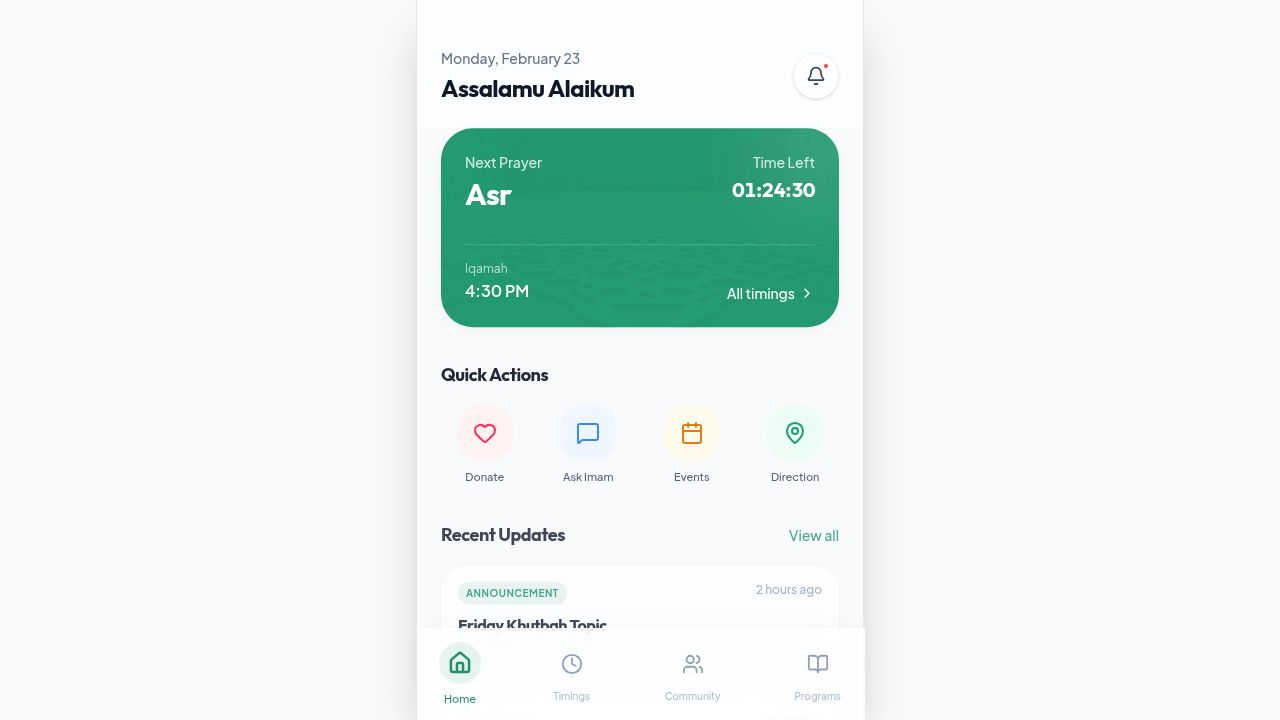
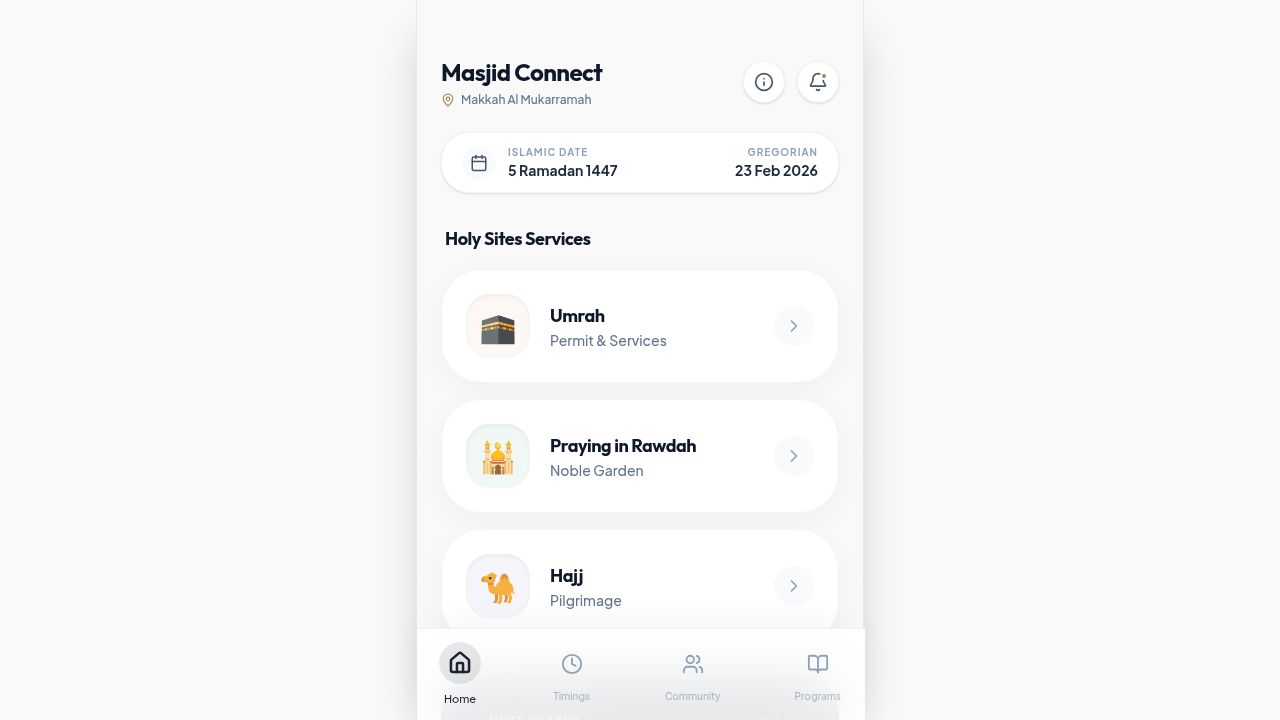
Update color palette and add service widgets inspired by Nusuk app
Modify CSS variables in `index.css` to adopt a Nusuk-inspired color scheme and introduce new service widgets to `Home.tsx`.

Replit-Commit-Author: Agent
Replit-Commit-Session-Id: 55d6c606-1854-4e0f-b1c6-3089f70cd9a5
Replit-Commit-Checkpoint-Type: full_checkpoint
Replit-Commit-Event-Id: 4c9d0ab0-be5f-4ed8-96c5-e7ea330431b8
Replit-Commit-Screenshot-Url: https://storage.googleapis.com/screenshot-production-us-central1/599d07c3-ad3f-4813-bbfb-17ba031df147/55d6c606-1854-4e0f-b1c6-3089f70cd9a5/vXrgej5
Replit-Helium-Checkpoint-Created: true

diff --git a/client/src/pages/Home.tsx b/client/src/pages/Home.tsx
@@ -1,136 +1,141 @@
 import { motion } from "framer-motion";
 import { format } from "date-fns";
-import { Bell, ChevronRight, Heart, MapPin, MessageSquare, Calendar } from "lucide-react";
+import { Bell, ChevronRight, Calendar, Info, MapPin, Heart } from "lucide-react";
 import patternBg from "@/assets/images/pattern-bg.png";
 import { Link } from "wouter";
 
 export default function Home() {
   const today = new Date();
   
+  const mainServices = [
+    { title: "Umrah", icon: "🕋", subtitle: "Permit & Services", color: "bg-[#FDF8F3] text-[#8B7355]" },
+    { title: "Praying in Rawdah", icon: "🕌", subtitle: "Noble Garden", color: "bg-[#F0F7F4] text-[#2D5A47]" },
+    { title: "Hajj", icon: "🐪", subtitle: "Pilgrimage", color: "bg-[#F5F5FB] text-[#4A4E69]" },
+  ];
+
   return (
-    <div className="min-h-full pb-8">
-      {/* Header */}
-      <header className="px-6 pt-12 pb-6 flex justify-between items-center bg-white/50 backdrop-blur-md sticky top-0 z-40">
-        <motion.div 
-          initial={{ opacity: 0, y: -10 }}
-          animate={{ opacity: 1, y: 0 }}
-          transition={{ duration: 0.5 }}
-        >
-          <p className="text-sm font-medium text-slate-500 mb-1">{format(today, "EEEE, MMMM d")}</p>
-          <h1 className="text-2xl font-bold text-slate-900">Assalamu Alaikum</h1>
-        </motion.div>
+    <div className="min-h-full pb-12 bg-[#F9F9F9]">
+      {/* Premium Header */}
+      <header className="px-6 pt-14 pb-6 flex justify-between items-center">
+        <div>
+          <h1 className="text-2xl font-bold text-slate-900 font-heading">Masjid Connect</h1>
+          <div className="flex items-center gap-1.5 mt-1">
+            <MapPin size={14} className="text-secondary" />
+            <span className="text-xs font-medium text-slate-500">Makkah Al Mukarramah</span>
+          </div>
+        </div>
         
-        <motion.button 
-          initial={{ opacity: 0, scale: 0.9 }}
-          animate={{ opacity: 1, scale: 1 }}
-          transition={{ duration: 0.5, delay: 0.1 }}
-          className="relative p-3 bg-white rounded-full shadow-sm border border-slate-100"
-          data-testid="btn-notifications"
-        >
-          <Bell size={20} className="text-slate-700" />
-          <span className="absolute top-2 right-2 w-2 h-2 bg-destructive rounded-full border-2 border-white"></span>
-        </motion.button>
+        <div className="flex gap-3">
+          <button className="p-2.5 bg-white rounded-2xl shadow-sm border border-slate-100" data-testid="btn-info">
+            <Info size={20} className="text-slate-600" />
+          </button>
+          <button className="relative p-2.5 bg-white rounded-2xl shadow-sm border border-slate-100" data-testid="btn-notifications">
+            <Bell size={20} className="text-slate-600" />
+            <span className="absolute top-2.5 right-2.5 w-2 h-2 bg-secondary rounded-full border-2 border-white"></span>
+          </button>
+        </div>
       </header>
 
       <div className="px-6 space-y-8">
-        {/* Next Prayer Card */}
+        {/* Date Section */}
+        <div className="flex items-center justify-between bg-white px-5 py-3 rounded-2xl shadow-sm border border-slate-100">
+          <div className="flex items-center gap-3">
+            <div className="p-2 bg-slate-50 rounded-xl">
+              <Calendar size={18} className="text-slate-600" />
+            </div>
+            <div>
+              <p className="text-[10px] font-bold text-slate-400 uppercase tracking-widest">Islamic Date</p>
+              <p className="text-sm font-bold text-slate-800">5 Ramadan 1447</p>
+            </div>
+          </div>
+          <div className="text-right">
+             <p className="text-[10px] font-bold text-slate-400 uppercase tracking-widest">Gregorian</p>
+             <p className="text-sm font-bold text-slate-800">{format(today, "dd MMM yyyy")}</p>
+          </div>
+        </div>
+
+        {/* Nusuk-style Featured Services */}
+        <section>
+          <h3 className="text-lg font-bold text-slate-900 mb-4 px-1">Holy Sites Services</h3>
+          <div className="grid grid-cols-1 gap-4">
+            {mainServices.map((service, i) => (
+              <motion.button 
+                key={service.title}
+                initial={{ opacity: 0, y: 20 }}
+                animate={{ opacity: 1, y: 0 }}
+                transition={{ delay: i * 0.1 }}
+                className="nusuk-card p-6 flex items-center justify-between group"
+                data-testid={`service-${service.title.toLowerCase()}`}
+              >
+                <div className="flex items-center gap-5">
+                  <div className={`w-16 h-16 rounded-[1.5rem] flex items-center justify-center text-3xl shadow-inner ${service.color}`}>
+                    {service.icon}
+                  </div>
+                  <div className="text-left">
+                    <h4 className="text-lg font-bold text-slate-900">{service.title}</h4>
+                    <p className="text-sm text-slate-500 font-medium">{service.subtitle}</p>
+                  </div>
+                </div>
+                <div className="w-10 h-10 rounded-full bg-slate-50 flex items-center justify-center group-hover:bg-slate-100 transition-colors">
+                  <ChevronRight size={20} className="text-slate-400" />
+                </div>
+              </motion.button>
+            ))}
+          </div>
+        </section>
+
+        {/* Prayer Time Widget */}
         <motion.div 
-          initial={{ opacity: 0, y: 20 }}
-          animate={{ opacity: 1, y: 0 }}
-          transition={{ duration: 0.6, delay: 0.2 }}
-          className="relative rounded-[2rem] overflow-hidden smooth-shadow bg-primary text-white p-6"
+          initial={{ opacity: 0, scale: 0.95 }}
+          animate={{ opacity: 1, scale: 1 }}
+          className="relative rounded-[2.5rem] overflow-hidden smooth-shadow bg-primary text-white p-8"
         >
           <div 
-            className="absolute inset-0 opacity-10 mix-blend-overlay bg-cover bg-center"
+            className="absolute inset-0 opacity-10 mix-blend-overlay bg-cover bg-center grayscale"
             style={{ backgroundImage: `url(${patternBg})` }}
           />
-          <div className="absolute top-0 right-0 w-32 h-32 bg-white/10 rounded-full blur-2xl -mr-10 -mt-10" />
           
           <div className="relative z-10">
-            <div className="flex justify-between items-start mb-8">
-              <div>
-                <p className="text-primary-foreground/80 text-sm font-medium mb-1">Next Prayer</p>
-                <h2 className="text-3xl font-bold font-heading">Asr</h2>
-              </div>
-              <div className="text-right">
-                <p className="text-primary-foreground/80 text-sm font-medium mb-1">Time Left</p>
-                <p className="text-xl font-bold font-heading tabular-nums">01:24:30</p>
+            <div className="flex justify-between items-center mb-6">
+              <span className="bg-white/10 backdrop-blur-md px-4 py-1.5 rounded-full text-xs font-bold tracking-widest uppercase">Next Prayer</span>
+              <div className="flex items-center gap-2 text-secondary font-bold">
+                <div className="w-2 h-2 rounded-full bg-secondary animate-pulse" />
+                Live
               </div>
             </div>
             
-            <div className="flex justify-between items-end border-t border-white/20 pt-4">
+            <div className="flex justify-between items-end">
               <div>
-                <p className="text-xs text-primary-foreground/70 mb-0.5">Iqamah</p>
-                <p className="font-semibold">4:30 PM</p>
+                <h2 className="text-4xl font-bold font-heading mb-1">Dhuhr</h2>
+                <p className="text-primary-foreground/60 text-sm font-medium">Iqamah in 45 mins</p>
               </div>
-              <Link href="/timings">
-                <a className="flex items-center text-sm font-medium text-white hover:text-white/80 transition-colors" data-testid="link-all-timings">
-                  All timings <ChevronRight size={16} className="ml-1" />
-                </a>
-              </Link>
+              <div className="text-right">
+                <p className="text-3xl font-bold font-heading tabular-nums">12:30</p>
+                <p className="text-xs font-bold text-secondary uppercase tracking-widest mt-1">PM</p>
+              </div>
             </div>
           </div>
         </motion.div>
 
-        {/* Quick Actions */}
-        <motion.section 
-          initial={{ opacity: 0, y: 20 }}
-          animate={{ opacity: 1, y: 0 }}
-          transition={{ duration: 0.6, delay: 0.3 }}
-        >
-          <h3 className="text-lg font-bold text-slate-900 mb-4">Quick Actions</h3>
-          <div className="grid grid-cols-4 gap-4">
-            {[
-              { icon: Heart, label: "Donate", color: "bg-rose-50 text-rose-500" },
-              { icon: MessageSquare, label: "Ask Imam", color: "bg-blue-50 text-blue-500" },
-              { icon: Calendar, label: "Events", color: "bg-amber-50 text-amber-600" },
-              { icon: MapPin, label: "Direction", color: "bg-emerald-50 text-emerald-600" },
-            ].map((action, i) => (
-              <button 
-                key={action.label} 
-                className="flex flex-col items-center gap-2 group"
-                data-testid={`btn-action-${action.label.toLowerCase()}`}
-              >
-                <div className={`w-14 h-14 rounded-2xl flex items-center justify-center transition-transform group-hover:scale-105 ${action.color}`}>
-                  <action.icon size={24} strokeWidth={2} />
+        {/* Quick Access */}
+        <section className="pb-8">
+           <div className="grid grid-cols-2 gap-4">
+              <div className="bg-white p-5 rounded-[2rem] border border-slate-100 shadow-sm relative overflow-hidden group">
+                <div className="w-10 h-10 bg-amber-50 text-amber-600 rounded-xl flex items-center justify-center mb-3">
+                  <Heart size={20} className="group-hover:scale-110 transition-transform" />
                 </div>
-                <span className="text-[11px] font-medium text-slate-600">{action.label}</span>
-              </button>
-            ))}
-          </div>
-        </motion.section>
-
-        {/* Recent Updates */}
-        <motion.section 
-          initial={{ opacity: 0, y: 20 }}
-          animate={{ opacity: 1, y: 0 }}
-          transition={{ duration: 0.6, delay: 0.4 }}
-        >
-          <div className="flex justify-between items-center mb-4">
-            <h3 className="text-lg font-bold text-slate-900">Recent Updates</h3>
-            <Link href="/community">
-              <a className="text-sm font-medium text-primary" data-testid="link-all-updates">View all</a>
-            </Link>
-          </div>
-          
-          <div className="space-y-4">
-            {[
-              { title: "Friday Khutbah Topic", desc: "The Importance of Patience in Hardship by Sh. Ahmed.", time: "2 hours ago", type: "Announcement" },
-              { title: "New Weekend School Term", desc: "Registration is now open for the upcoming term.", time: "Yesterday", type: "Education" },
-            ].map((update, i) => (
-              <div key={i} className="glass-card p-4 rounded-2xl active:scale-[0.98] transition-transform">
-                <div className="flex justify-between items-start mb-2">
-                  <span className="text-[10px] uppercase tracking-wider font-bold text-primary bg-primary/10 px-2 py-1 rounded-md">
-                    {update.type}
-                  </span>
-                  <span className="text-xs text-slate-400 font-medium">{update.time}</span>
-                </div>
-                <h4 className="font-bold text-slate-900 mb-1">{update.title}</h4>
-                <p className="text-sm text-slate-500 leading-relaxed">{update.desc}</p>
+                <h5 className="font-bold text-slate-900">Zakat & Sadaqah</h5>
+                <p className="text-xs text-slate-500 mt-1">Direct donations</p>
               </div>
-            ))}
-          </div>
-        </motion.section>
+              <div className="bg-white p-5 rounded-[2rem] border border-slate-100 shadow-sm relative overflow-hidden group">
+                <div className="w-10 h-10 bg-blue-50 text-blue-600 rounded-xl flex items-center justify-center mb-3">
+                  <Info size={20} className="group-hover:rotate-12 transition-transform" />
+                </div>
+                <h5 className="font-bold text-slate-900">Masjid Guide</h5>
+                <p className="text-xs text-slate-500 mt-1">Facilities & Rules</p>
+              </div>
+           </div>
+        </section>
       </div>
     </div>
   );

diff --git a/client/src/index.css b/client/src/index.css
@@ -35,68 +35,68 @@
 }
 
 :root {
-  /* Elegant light theme inspired by Nusuk */
-  --background: 0 0% 98%;
-  --foreground: 220 20% 15%;
+  /* Nusuk-inspired color palette: Warm, premium, neutral */
+  --background: 30 20% 98%;
+  --foreground: 20 20% 12%;
   
   --card: 0 0% 100%;
-  --card-foreground: 220 20% 15%;
+  --card-foreground: 20 20% 12%;
   
   --popover: 0 0% 100%;
-  --popover-foreground: 220 20% 15%;
+  --popover-foreground: 20 20% 12%;
   
-  /* Rich emerald green as primary */
-  --primary: 158 64% 35%;
+  /* Deep Navy/Slate Primary */
+  --primary: 220 30% 15%;
   --primary-foreground: 0 0% 100%;
   
-  /* Soft gold as secondary */
-  --secondary: 42 63% 58%;
+  /* Muted Gold/Tan Secondary */
+  --secondary: 35 30% 50%;
   --secondary-foreground: 0 0% 100%;
   
-  --muted: 210 20% 96%;
-  --muted-foreground: 215 15% 45%;
+  --muted: 30 20% 95%;
+  --muted-foreground: 20 10% 45%;
   
-  --accent: 158 64% 95%;
-  --accent-foreground: 158 64% 35%;
+  --accent: 35 30% 92%;
+  --accent-foreground: 35 30% 30%;
   
   --destructive: 0 84% 60%;
   --destructive-foreground: 0 0% 100%;
 
-  --border: 214 32% 91%;
-  --input: 214 32% 91%;
-  --ring: 158 64% 35%;
+  --border: 30 10% 90%;
+  --input: 30 10% 90%;
+  --ring: 220 30% 15%;
 
-  --radius: 1rem;
+  --radius: 1.25rem;
 }
 
 .dark {
-  --background: 220 20% 10%;
+  --background: 220 20% 8%;
   --foreground: 210 20% 98%;
   
-  --card: 220 20% 14%;
+  --card: 220 20% 12%;
   --card-foreground: 210 20% 98%;
   
-  --popover: 220 20% 14%;
+  --popover: 220 20% 12%;
   --popover-foreground: 210 20% 98%;
   
-  --primary: 158 64% 45%;
-  --primary-foreground: 0 0% 100%;
+  --primary: 210 20% 98%;
+  --primary-foreground: 220 20% 8%;
   
-  --secondary: 42 63% 58%;
+  --secondary: 35 30% 58%;
   --secondary-foreground: 0 0% 100%;
   
-  --muted: 220 20% 18%;
+  --muted: 220 20% 15%;
   --muted-foreground: 215 15% 70%;
   
-  --accent: 158 64% 20%;
-  --accent-foreground: 158 64% 95%;
+  --accent: 220 20% 20%;
+  --accent-foreground: 210 20% 98%;
   
   --destructive: 0 62% 30%;
   --destructive-foreground: 0 0% 100%;
   
-  --border: 220 20% 20%;
-  --input: 220 20% 20%;
-  --ring: 158 64% 45%;
+  --border: 220 20% 18%;
+  --input: 220 20% 18%;
+  --ring: 210 20% 98%;
 }
 
 @layer base {
@@ -112,18 +112,17 @@
   }
 }
 
-/* Custom Utilities for mobile feel */
 @layer utilities {
   .glass-nav {
-    @apply bg-white/80 backdrop-blur-lg border-t border-white/20 shadow-[0_-8px_30px_-15px_rgba(0,0,0,0.05)];
+    @apply bg-white/90 backdrop-blur-xl border-t border-slate-200/50 shadow-[0_-10px_40px_-15px_rgba(0,0,0,0.08)];
   }
   
-  .glass-card {
-    @apply bg-white/70 backdrop-blur-md border border-white/40 shadow-sm;
+  .nusuk-card {
+    @apply bg-white rounded-[2.5rem] border border-slate-100 shadow-[0_8px_30px_rgb(0,0,0,0.04)] transition-all active:scale-[0.98];
   }
 
   .smooth-shadow {
-    box-shadow: 0 4px 20px -2px rgba(0, 0, 0, 0.05), 0 0 3px rgba(0,0,0,0.02);
+    box-shadow: 0 10px 30px -5px rgba(0, 0, 0, 0.04), 0 0 5px rgba(0,0,0,0.01);
   }
   
   .hide-scrollbar::-webkit-scrollbar {
